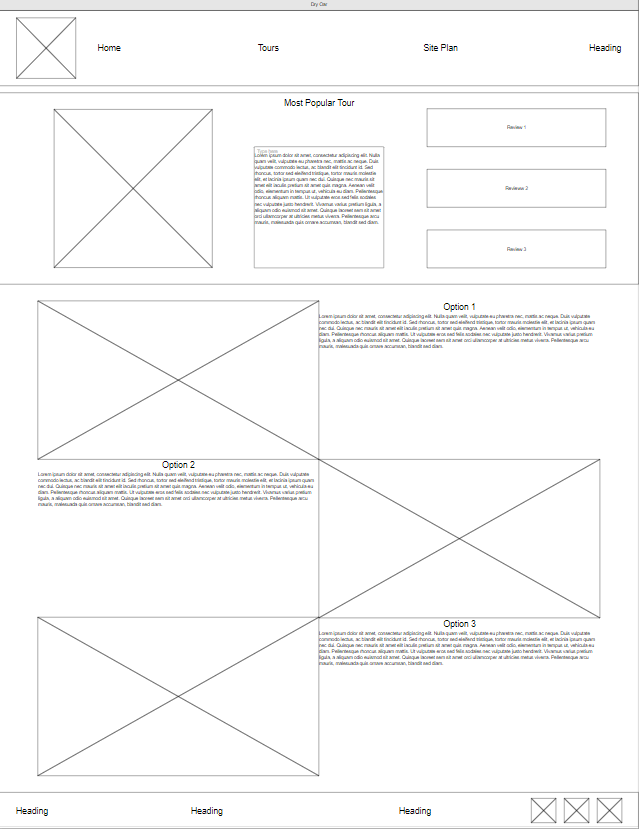
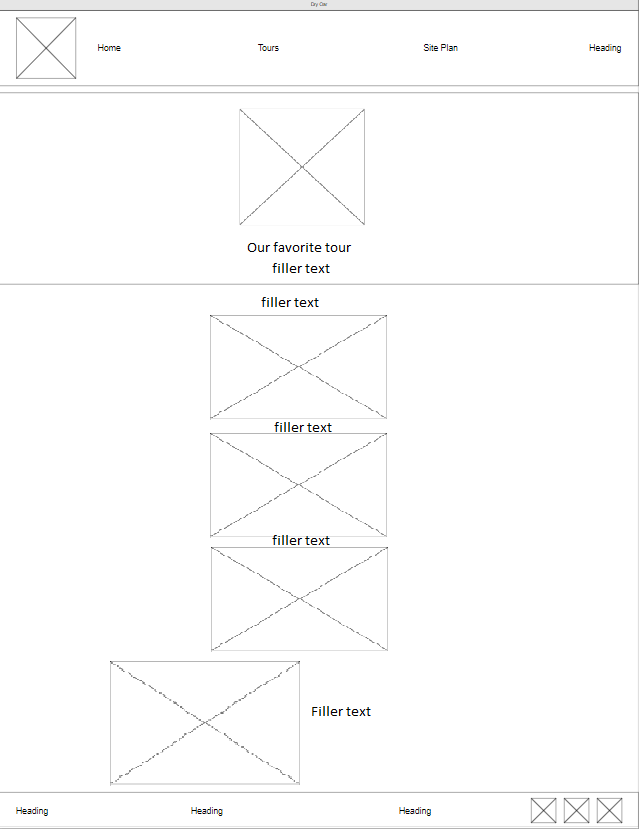
yes

diff --git a/wwr/tours.html b/wwr/tours.html
@@ -23,41 +23,44 @@
                     <a href="contactus.html">Contact Us</a>
                 </nav>
             </header>
-                    <img id="favorite-img" src="images/Favorite.jpg" alt="People enjoying rafting">
-                <section id="favorite-msg">
-                    <h1 class="Tour-title">Our Favorite Tour</h1>
-                    <p>Enjoy the breathtaking view of the grand canyon. Almost everyone who has taken this tour recommends it to others. Look at some of the reviews.</p>
-                    <h4>Seek Dry Oar</h4>
-                    <div class="button-box">
-                        <a class="book" href="rates.html">Book Now</a>
-                    </div>
-                </section>
+            <section class="msg">
+            <img class="favorite-img" src="images\favorite.jpg">
+                <h2>Our favorite tour: Grand Canyon</h2>
+                <p>On this particular trip, we explore the Grand Canyons. While it is a three day commitment, you will see some amazing views.</p>
+                <a class="join" href="rivers.html">Join Us</a>
+            </section>
+            <section>
+                <h3 style="text-align:center">Our tours are further broken into skill levels. These levels are so that you can have a fun trip rather than one where you want to get off at the first stop.</p>
+            </section>
             </div>
             <main class="home-grid">
                 <section class="rivers-card">
-                    <img class="card-img" src="images/rivers.jpg" alt="river in forest">
-                    <img class="icon" src="images/river_icon.png" alt="river icon">
-                    <h2>Rivers</h2>
+                    <img class="card-img" src="images/beginnerraft.jpg" alt="river in forest">
+                    <img class="icon" src="images/beginner.png" alt="river icon">
+                    <h2>Beginner</h2>
+                    <p> This tour focuses more on enojing the experience than adreniline.</p>
                 </section>
                 <section class="camping-card">
-                    <img class="card-img" src="images/camping.jpg" alt="tent in mountains">
-                    <img class="icon" src="images/fire_icon.png" alt="fire icon">
-                    <h2>Camping</h2>
+                    <img class="card-img" src="images/intermediateraft.jpg" alt="tent in mountains">
+                    <img class="icon" src="images/intermediate.png" alt="fire icon">
+                    <h2>Intermediate</h2>
+                    <p>Not for the faint of heart. While difficult, it is tamable.</p>
                 </section>
                 <section class="rapids-card">
-                    <img class="card-img" src="images/rapids.jpg" alt="rafting boat">
-                    <img class="icon" src="images/oars.png" alt="oars icon">
-                    <h2>Rapids</h2>
+                    <img class="card-img" src="images/masterraft.jpg" alt="rafting boat">
+                    <img class="icon" src="images/master.png" alt="oars icon">
+                    <h2>Master</h2>
+                    <p>Only meant for the most hardened of rafters. If you are at this level, fear is not an issue. It requires you to sign documentation</p>
                 </section>
                 <div id="background">
 
                 </div>
-                <img class="mountains" src="images/mountains.jpg" alt="Misty mountains">
+                <img class="beauty" src="images/beauty.jpg" alt="good rafting">
                 <section class="msg">
-                    <h2>More Tahn Just The Trill</h2>
-                    <p>Enjoy the breathtaking scenary. From valleys, meadows, canyons, and high peaks;
-                        it's way more than just the rapids. It's a great way to get away from it all and
-                        relax amongst all the beuty of the great outdoors</p>
+                    <h2>Remember, enjoy yourself</h2>
+                    <p>No matter what you descide, it will be a fun rafting trip.
+                        These trips more serve as a way for you to relax when you have the time.
+                        Now, strap it. We have a tour to go on!</p>
                     <a class="join" href="rivers.html">Join Us</a>
                 </section>
             </main>

diff --git a/wwr/styles/style.css b/wwr/styles/style.css
@@ -111,32 +111,14 @@ h4 {
 }
 
 .favorite-img {    
-    width: 100;
-    transition: transform 0.5s;
-    border: 5px solid #000000;
+
+    width: 40%;
     transition: transform 0.5s;
     position: relative;
-    top:20px;
-    left:20px;
-    padding: 20px;
 
-}
-#favorite-box {
-    grid-column: 1/4;
-    grid-row: 1/3;
-    z-index: -1;
+    left:30%;
+    box-align: center;  
 
-}
-
-#favorite-msg {
-    grid-column: 2/3;
-    grid-row: 1/2;
-    margin-top: 100px;
-}
-
-#favorite-msg h1,
-#favorite-msg h4 {
-    text-align: center;
 }
 
 
@@ -145,7 +127,6 @@ h4 {
     transition: transform 0.5s;
     box-shadow: 5px 5px 10px #5900ff;
     width: 100%;
-    transition: transform 0.5s;
 }
 .card-img:hover {
     opacity: 0.6;
@@ -158,7 +139,11 @@ h4 {
     grid-row: 5/8;
     box-shadow: 5px 5px 10px #5900ff;
 }
-
+.beauty {    
+    width: 100%;
+    grid-column: 2/7;
+    grid-row: 5/8;
+    box-shadow: 5px 5px 10px #5900ff;}
 #hero {
     display: grid;
     grid-template-columns: 1fr 3fr 1fr;
@@ -233,6 +218,7 @@ footer {
 
 footer h3 {
     color: black;
+  
 }
 
 footer h3:hover {
@@ -302,6 +288,11 @@ footer .social img {
     .tour-title {
         font-size: 20px;
         color: #000000;
+        text-align: center;
+    }
+    p {
+        text-align: justify;
+        font-size: 22px;
     }
 
     .rivers-card,
@@ -315,7 +306,7 @@ footer .social img {
         display: none;
     }
 
-    .mountains,
+    
     .msg {
         width: 80%;
         display: block;

diff --git a/wwr/index.html b/wwr/index.html
@@ -28,7 +28,7 @@
                     <img id="hero-img" src="images/hero.png" alt="People enjoying rafting">
                 </div>
                 <section id="hero-msg">
-                    <h1 class="home-title">When you want to soar</h1>
+                    <h1 class="home-title">When you want to soar, choose Dry Oar</h1>
                     <h4>Seek Dry Oar</h4>
                     <div class="button-box">
                         <a class="book" href="rates.html">Book Now</a>
